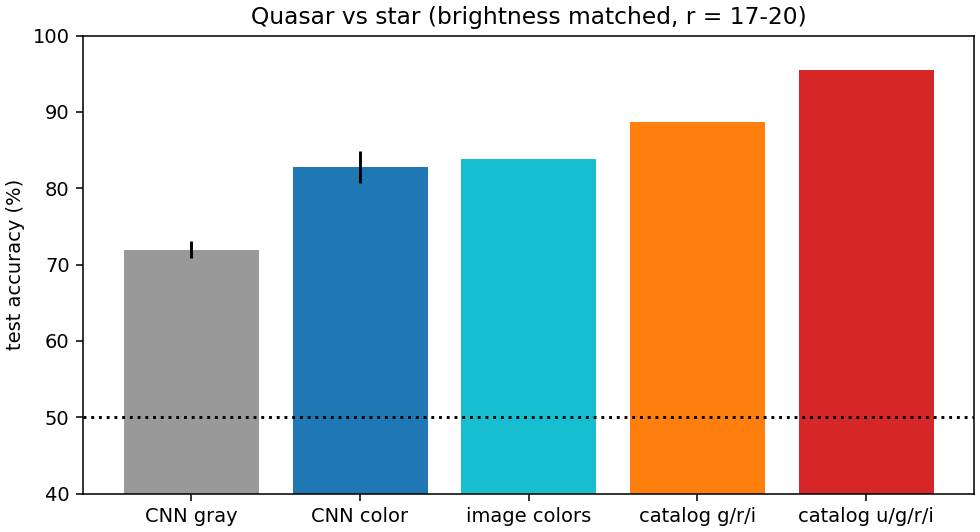
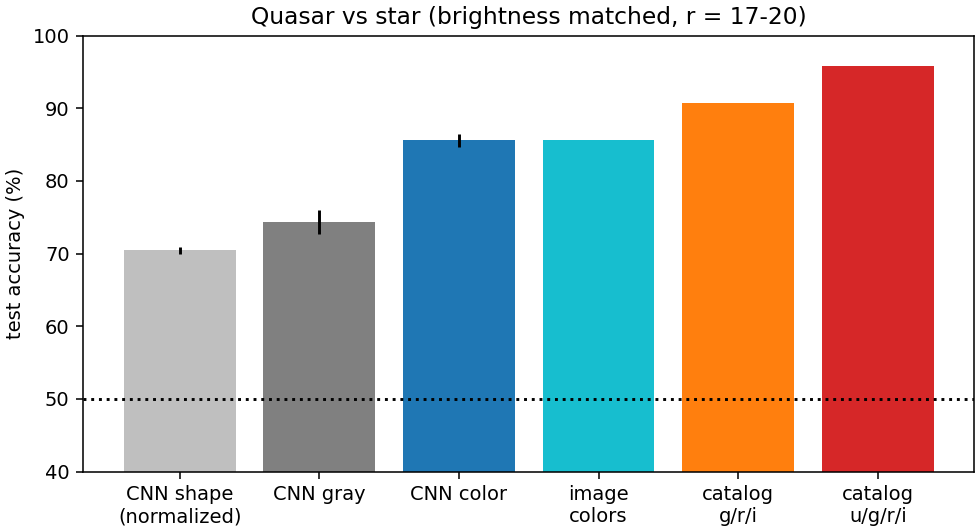
Step 6: shape-only input, image-color limit, high-z quasars; seeing differs between samples.

diff --git a/agentic/10_Convolutions_and_Galaxies/step6.py b/agentic/10_Convolutions_and_Galaxies/step6.py
@@ -55,8 +55,13 @@ if __name__ == "__main__":
     srows = [r for r in csv.DictReader(open(SD / "stars" / "index.csv")) if 17 <= float(r["psfMag_r"]) < 20]
     u_star = {r["objid"]: float(r["psfMag_u"]) for r in csv.DictReader(open(SD / "stars" / "u_band.csv"))}
     srows = [dict(r, psfMag_u=u_star[r["objid"]]) for r in srows if r["objid"] in u_star]
-    qrows = list(csv.DictReader(open(SD / "quasars" / "index.csv")))
-    stars, qsos = load("stars", srows), load("quasars", qrows)
+    # quasars: 1000 of the main (mostly z < 2) sample plus 500 at z = 2-3.5, 1500 in all
+    q_lo = list(csv.DictReader(open(SD / "quasars" / "index.csv")))
+    q_lo = [q_lo[k] for k in np.random.default_rng(1).permutation(len(q_lo))[:1000]]
+    q_hi = list(csv.DictReader(open(SD / "quasars_hiz" / "index.csv")))
+    qrows = q_lo + q_hi
+    stars = load("stars", srows)
+    qsos = np.concatenate([load("quasars", q_lo), load("quasars_hiz", q_hi)])
     X_img = np.concatenate([stars, qsos])
     y = np.r_[np.zeros(len(stars)), np.ones(len(qsos))].astype(int)
     mags = np.array([[float(r[f"psfMag_{b}"]) for b in "ugri"] for r in srows + qrows])
@@ -87,9 +92,18 @@ if __name__ == "__main__":
 
     # ---- CNNs -------------------------------------------------------------------------------------
     x = torch.tensor(X_img, dtype=torch.float32).permute(0, 3, 1, 2) / 255.0
+    # shape only: linear flux (channel mean), sky-subtracted, divided by the flux inside
+    # r < 8 px, so neither brightness nor color survives (the JPG's channel gains make a
+    # plain grayscale image color-sensitive)
+    yy, xx = np.mgrid[:2 * C, :2 * C]
+    R = np.hypot(yy - (C - 0.5), xx - (C - 0.5))
+    lin = sims.unstretch(X_img, A).mean(-1)
+    lin = lin - np.median(lin[:, R > 18], axis=1)[:, None, None]
+    lin = lin / np.clip(lin[:, R < 8].sum(1), 1e-3, None)[:, None, None]
+    x_shape = torch.tensor(lin[:, None], dtype=torch.float32)
     res, p_cnn = {}, {}
-    for kind in ["color", "gray"]:
-        xk = x if kind == "color" else x.mean(1, keepdim=True)
+    for kind in ["color", "gray", "shape"]:
+        xk = {"color": x, "gray": x.mean(1, keepdim=True), "shape": x_shape}[kind]
         m, s = xk[tr].mean(), xk[tr].std()
         xk = (xk - m) / s
         accs = []
@@ -119,6 +133,12 @@ if __name__ == "__main__":
             " ".join(f"{100 * f:.0f}%(n={n})" for f, n in by_z[name]))
     star_ok = np.mean(p_cnn["color"][y[te] == 0] < 0.5)
     say(f"[by z] stars called star by the color CNN: {100 * star_ok:.1f}%")
+    ps = p_cnn["shape"][y[te] == 1]
+    shape_lo = np.mean(ps[zq < 0.5] > 0.5)
+    shape_hi = np.mean(ps[zq > 1.5] > 0.5)
+    say(f"[shape] shape-only CNN calls quasars quasar: z < 0.5 {100 * shape_lo:.0f}% (n = {(zq < 0.5).sum()}), "
+        f"z > 1.5 {100 * shape_hi:.0f}% (n = {(zq > 1.5).sum()}); stars called star "
+        f"{100 * np.mean(p_cnn['shape'][y[te] == 0] < 0.5):.0f}%")
 
     # ---- figures -----------------------------------------------------------------------------------
     fig, axes = plt.subplots(1, 3, figsize=(16, 4.6), constrained_layout=True)
@@ -149,12 +169,13 @@ if __name__ == "__main__":
     fig.savefig(OUT / "step6_colors.png", dpi=140)
 
     fig, ax = plt.subplots(figsize=(7, 3.8), constrained_layout=True)
-    names = ["CNN gray", "CNN color", "image colors", "catalog g/r/i", "catalog u/g/r/i"]
-    vals = [res["gray"][0], res["color"][0], base["colors measured from the images"],
+    names = ["CNN shape\n(normalized)", "CNN gray", "CNN color", "image\ncolors", "catalog\ng/r/i",
+             "catalog\nu/g/r/i"]
+    vals = [res["shape"][0], res["gray"][0], res["color"][0], base["colors measured from the images"],
             base["catalog g/r/i colors"], base["catalog u/g/r/i colors"]]
-    errs = [res["gray"][1], res["color"][1], 0, 0, 0]
-    ax.bar(names, [100 * v for v in vals], yerr=[100 * e for e in errs], color=["0.6", "tab:blue", "tab:cyan",
-                                                                             "tab:orange", "tab:red"])
+    errs = [res["shape"][1], res["gray"][1], res["color"][1], 0, 0, 0]
+    ax.bar(names, [100 * v for v in vals], yerr=[100 * e for e in errs],
+           color=["0.75", "0.5", "tab:blue", "tab:cyan", "tab:orange", "tab:red"])
     ax.axhline(50, c="k", ls=":")
     ax.set_ylim(40, 100)
     ax.set_ylabel("test accuracy (%)")
@@ -182,10 +203,14 @@ if __name__ == "__main__":
     (OUT / "step6_log.txt").write_text("\n".join(log) + "\n")
 
     # ---- checks -------------------------------------------------------------------------------------
-    worst = int(np.argmin([a for a, n in by_z["catalog g/r/i"]]))
-    assert abs(res["gray"][0] - 0.5) < 0.08, "shape alone should barely separate two kinds of point source"
-    assert res["color"][0] > res["gray"][0] + 0.15, "color should separate quasars from stars"
-    assert abs(res["color"][0] - base["catalog g/r/i colors"]) < 0.06, "the color CNN should approach the g/r/i limit"
+    filled = [k for k, (a, n) in enumerate(by_z["catalog g/r/i"]) if n >= 20]
+    worst = filled[int(np.argmin([by_z["catalog g/r/i"][k][0] for k in filled]))]
+    assert res["shape"][0] < res["gray"][0] - 0.03, "normalizing should remove the color leaking into grayscale"
+    assert shape_lo > shape_hi, "shape should help most at low z, where host galaxies are visible"
+    assert res["color"][0] > res["shape"][0] + 0.10, "color should separate quasars from stars"
+    assert abs(res["color"][0] - base["colors measured from the images"]) < 0.04, \
+        "the color CNN should reach the color information the images hold"
     assert base["catalog u/g/r/i colors"] > base["catalog g/r/i colors"] + 0.03, "the u band should help (UV excess)"
     assert 2.0 <= zbins[worst] < 3.5, "g/r/i should struggle most where quasars cross the stellar locus (z ~ 2.5-3)"
-    print("PASS: gray ~ chance, color separates, CNN ~ g/r/i limit, u band helps, hardest at z ~ 2.5-3.")
+    print("PASS: normalizing removes the color leak, shape helps at low z (hosts), color separates, CNN reaches "
+          "the image-color limit, u band helps, hardest at z ~ 2-3.5.")

diff --git a/agentic/10_Convolutions_and_Galaxies/sdss_fetch.py b/agentic/10_Convolutions_and_Galaxies/sdss_fetch.py
@@ -142,6 +142,18 @@ def quasar_rows():
     return rows
 
 
+def quasar_hiz_rows():
+    """500 point-source quasars at z = 2-3.5 (r = 17-20), where quasar colors cross the
+    stellar locus; the main query's catalog order left almost none there."""
+    q = ("select top 500 p.objid, p.ra, p.dec, p.psfMag_u, p.psfMag_g, p.psfMag_r, p.psfMag_i, s.z "
+         "from SpecObj s join PhotoObj p on s.bestobjid = p.objid "
+         "where s.class = 'QSO' and p.type = 6 and p.clean = 1 and s.zWarning = 0 "
+         "and s.z between 2.0 and 3.5 and p.psfMag_r between 17 and 20 and (p.objid % 3) = 1")
+    rows = [{"name": f"qso_{r['objid']}", **r} for r in sql(q)]
+    print(f"high-z quasars: {len(rows)}", flush=True)
+    return rows
+
+
 def star_u_band():
     """psfMag_u for the downloaded stars (for the catalog UV-excess baseline only)."""
     rows = list(csv.DictReader(open(OUT / "stars" / "index.csv")))
@@ -182,6 +194,8 @@ if __name__ == "__main__":
     if "quasars" in what:
         fetch_all(quasar_rows(), OUT / "quasars")
         star_u_band()
+    if "quasars_hiz" in what:
+        fetch_all(quasar_hiz_rows(), OUT / "quasars_hiz")
     if "galaxies" in what:
         fetch_all(galaxy_rows(), OUT / "galaxies")
     if "stars" in what:
